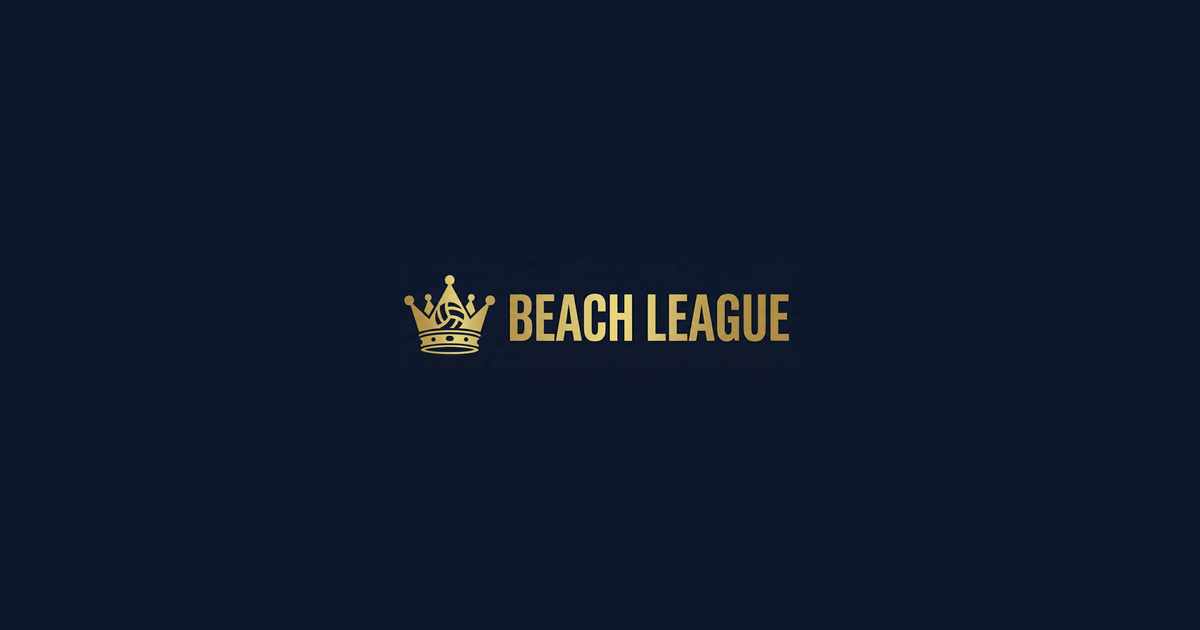
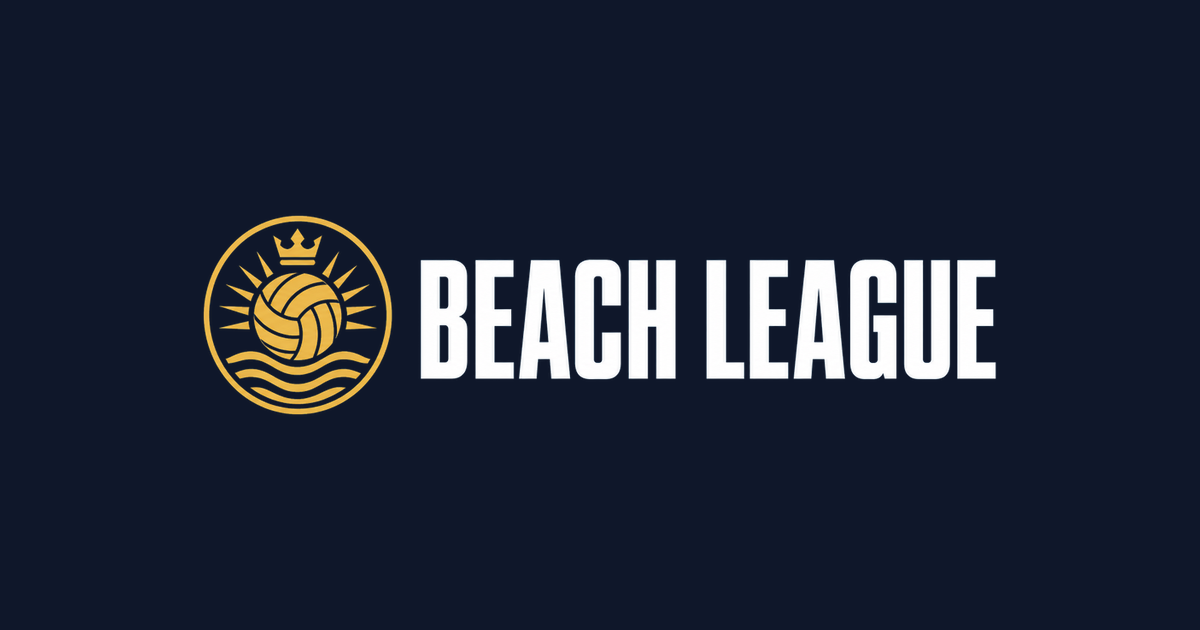
feat(web): apply Beach League branding

Changed region(s): [[0.1542, 0.3317, 0.8325, 0.6635]]

diff --git a/apps/web/src/components/layout/navbar/NavBrand.tsx b/apps/web/src/components/layout/navbar/NavBrand.tsx
@@ -1,6 +1,7 @@
 'use client';
 
 import React from 'react';
+import Image from 'next/image';
 import { useRouter } from 'next/navigation';
 import Link from 'next/link';
 import { useAuth } from '../../../contexts/AuthContext';
@@ -20,7 +21,14 @@ export default function NavBrand() {
       className="navbar-brand"
       onClick={handleClick}
     >
-      <span className="navbar-brand-text">Beach League</span>
+      <Image
+        src="/brand/lockup-on-dark-640.png"
+        alt="Beach League"
+        width={640}
+        height={176}
+        className="navbar-brand-logo"
+        preload
+      />
     </Link>
   );
 }

diff --git a/apps/web/app/page.tsx b/apps/web/app/page.tsx
@@ -190,12 +190,12 @@ export default function Page() {
             <h2 className="landing-welcome-title">
               Welcome to{" "}
               <Image
-                src="/beach-league-gold-on-white-cropped.png"
+                src="/brand/lockup-on-light-640.png"
                 alt="Beach League"
                 width={200}
-                height={50}
+                height={53}
                 className="landing-brand-logo"
-                priority
+                preload
               />
             </h2>
             <p>Log in to get started</p>

diff --git a/apps/web/src/components/layout/NavBar.css b/apps/web/src/components/layout/NavBar.css
@@ -51,7 +51,7 @@
 }
 
 .navbar-brand-logo {
-  height: 25px;
+  height: 34px;
   width: auto;
   object-fit: contain;
 }
@@ -457,9 +457,8 @@ body.drawer-open .navbar {
     height: 52px;
   }
 
-  .navbar-brand-text {
-    font-size: 1.2em;
-    letter-spacing: 0.06em;
+  .navbar-brand-logo {
+    height: 29px;
   }
 
   .navbar-menu-button {
@@ -490,9 +489,8 @@ body.drawer-open .navbar {
     height: 52px;
   }
 
-  .navbar-brand-text {
-    font-size: 1.1em;
-    letter-spacing: 0.05em;
+  .navbar-brand-logo {
+    height: 26px;
   }
 
   .navbar-menu-button {

diff --git a/apps/web/app/invite/[token]/page.tsx b/apps/web/app/invite/[token]/page.tsx
@@ -153,11 +153,12 @@ export default function InviteLandingPage() {
     <>
       <div className="invite-page__logo">
         <Image
-          src="/beach-league-gold-on-white-cropped.png"
+          src="/brand/lockup-on-light-640.png"
           alt="Beach League"
           width={180}
-          height={45}
-          priority
+          height={48}
+          sizes="180px"
+          preload
         />
       </div>
       <h1 className="invite-page__heading">You&rsquo;ve Been Invited!</h1>

diff --git a/apps/web/app/layout.tsx b/apps/web/app/layout.tsx
@@ -12,7 +12,8 @@ export const metadata = {
   description:
     'Find and join beach volleyball leagues near you. Track stats, ELO ratings, standings, and connect with players in your area.',
   icons: {
-    icon: '/favicon.ico',
+    icon: [{ url: '/brand/favicon.png', type: 'image/png', sizes: '48x48' }],
+    apple: [{ url: '/brand/brand-tile-512.png', type: 'image/png', sizes: '512x512' }],
   },
   openGraph: {
     type: 'website',

diff --git a/apps/web/src/utils/og-config.tsx b/apps/web/src/utils/og-config.tsx
@@ -14,7 +14,7 @@ export const OG_WIDTH = 1200;
 export const OG_HEIGHT = 630;
 
 /** Logo file in /public. */
-const LOGO_FILE = 'beach-league-gold-on-navy.png';
+const LOGO_FILE = 'brand/lockup-on-dark-640.png';
 
 /** Layout & color tokens. */
 export const OG_STYLES = {
